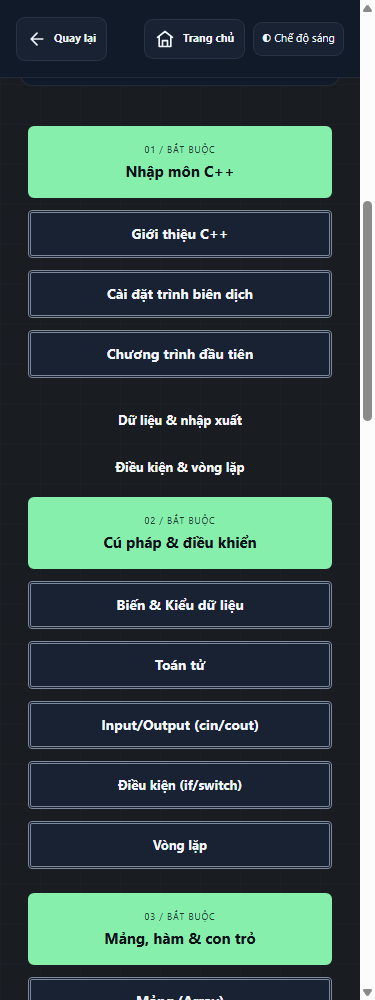
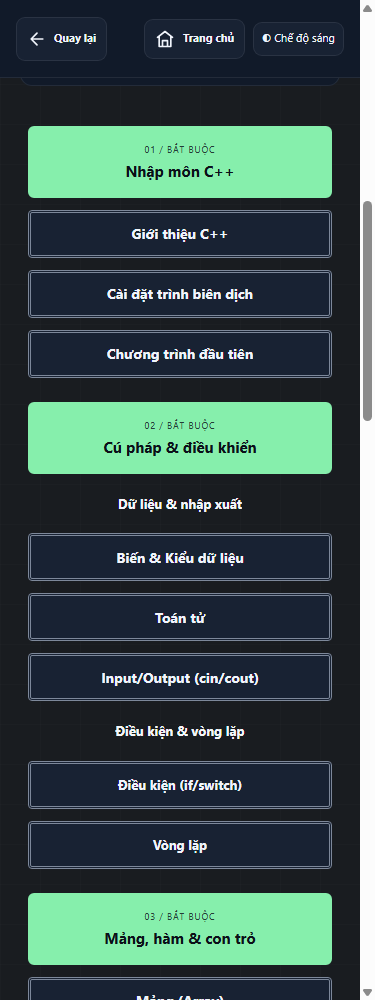
Oct 15, 2026, 2:24 PM

Changed region(s): [[0.0587, 0.403, 0.9093, 0.744]]

diff --git a/README.md b/README.md
@@ -382,3 +382,5 @@ B?ng m?u hi?n t?i: tr?ng?xanh d??ng (#f8fbff, #2563eb). N?t menu 44px, ba n?t c?
 Lộ trình Thuật toán: `roadmap/thuat-toan.html` dùng nguồn `assets/roadmaps/thuat-toan.js` (nodes, liên kết và nội dung bài); bấm chủ đề để chuyển đến trang riêng `thuat-toan/chapter01..23.html`, không có sidebar hoặc quiz nhúng. Quiz nằm riêng ở `thuat-toan/quiz.html`, chỉ trang này tải câu hỏi từ `assets/roadmaps/thuat-toan-quiz.js`. Chạy `node scripts/sync-algorithm-roadmap.cjs` để sinh lại các trang bài học và danh sách không JavaScript từ dữ liệu; mọi trang có nút Quay lại kèm icon và Trang chủ. Khóa mới dùng cùng schema và trang nạp file dữ liệu tương ứng.
 
 Các khóa còn lại dùng `assets/roadmaps/<khóa>.js` cho sơ đồ, `<khóa>-source.json` cho nội dung nguồn và `<khóa>-quiz.js` cho quiz riêng; chạy `node scripts/migrate-course-roadmaps.cjs --dry-run` để xem thay đổi, `--apply` để sinh lại trang từ nguồn. Mục lục `<khóa>/index.html` và `roadmap/<khóa>.html` hiển thị cùng lộ trình; danh sách file và ảnh kiểm tra nằm trong `reports/course-roadmaps/`.
+
+Các nhóm chủ đề và nhánh của từng khóa được cấu hình trong `assets/roadmaps/course-structure.json`, dựa trên nội dung chương hiện có, dùng cùng cấu trúc và màu sắc với Thuật toán; không tự chia đều mỗi bốn bài thành “Chặng”.
